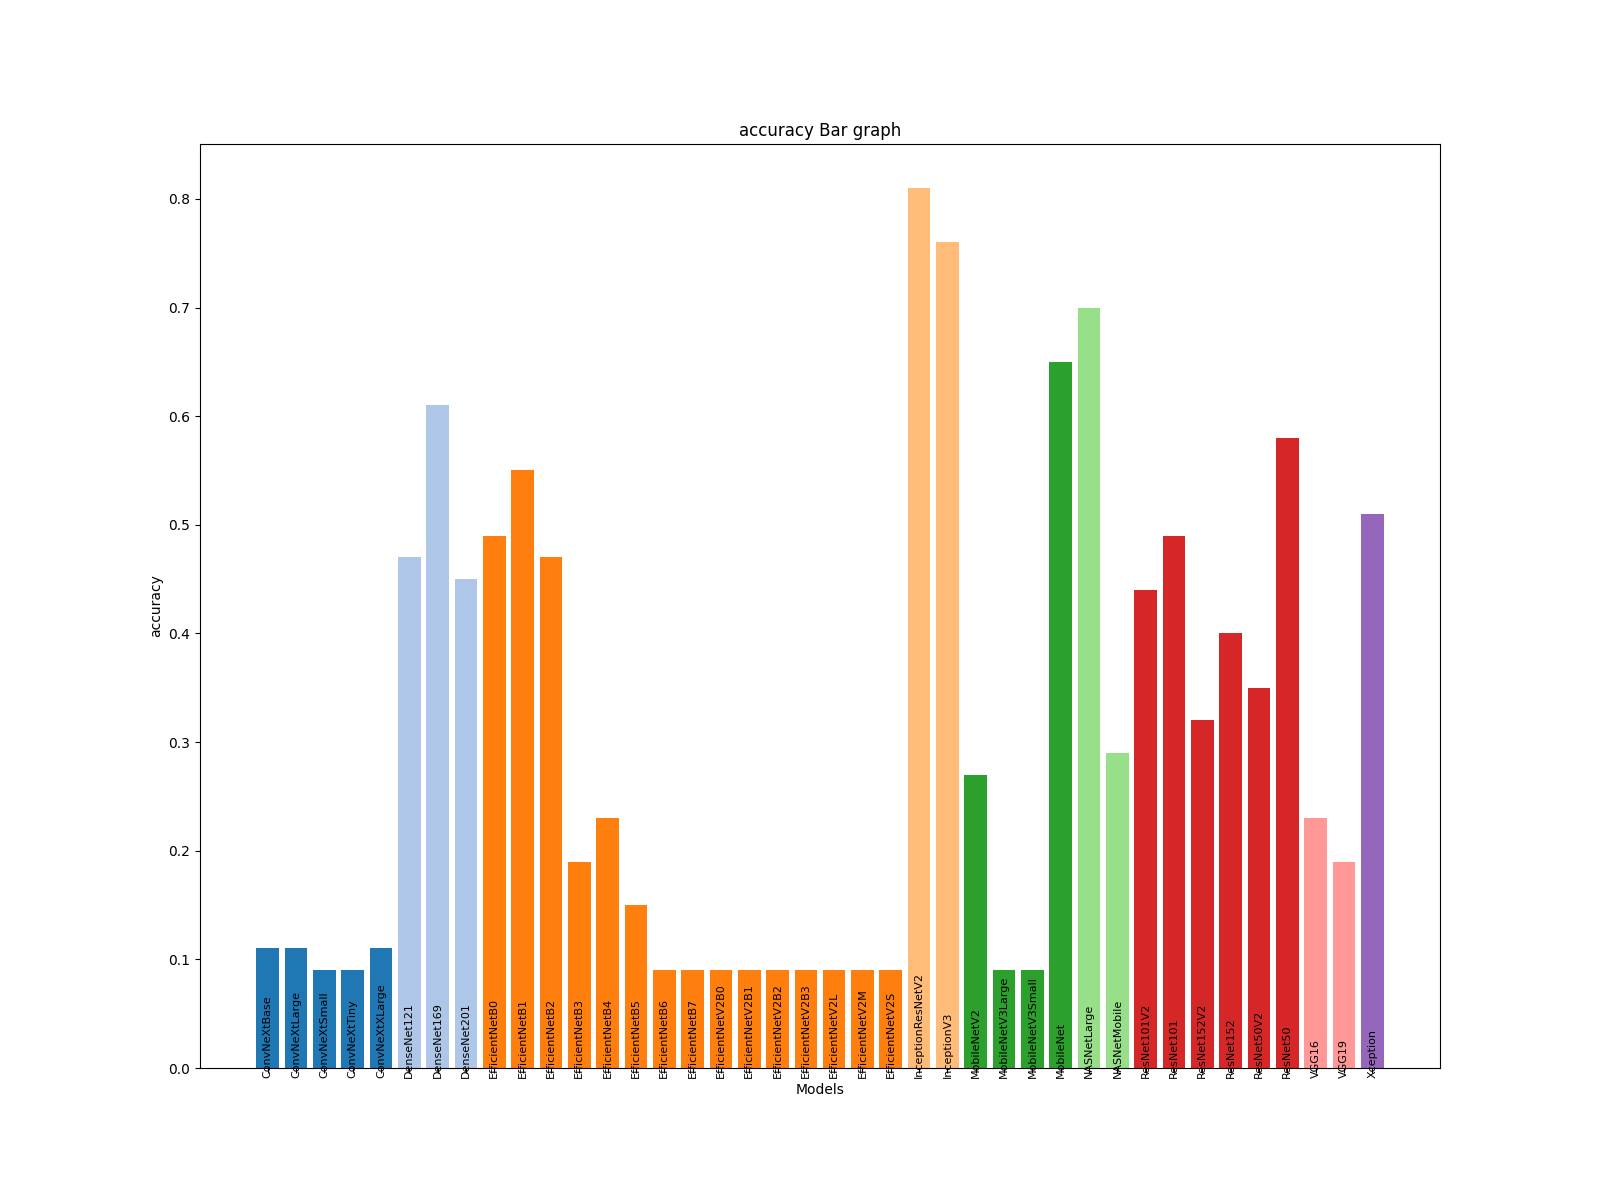
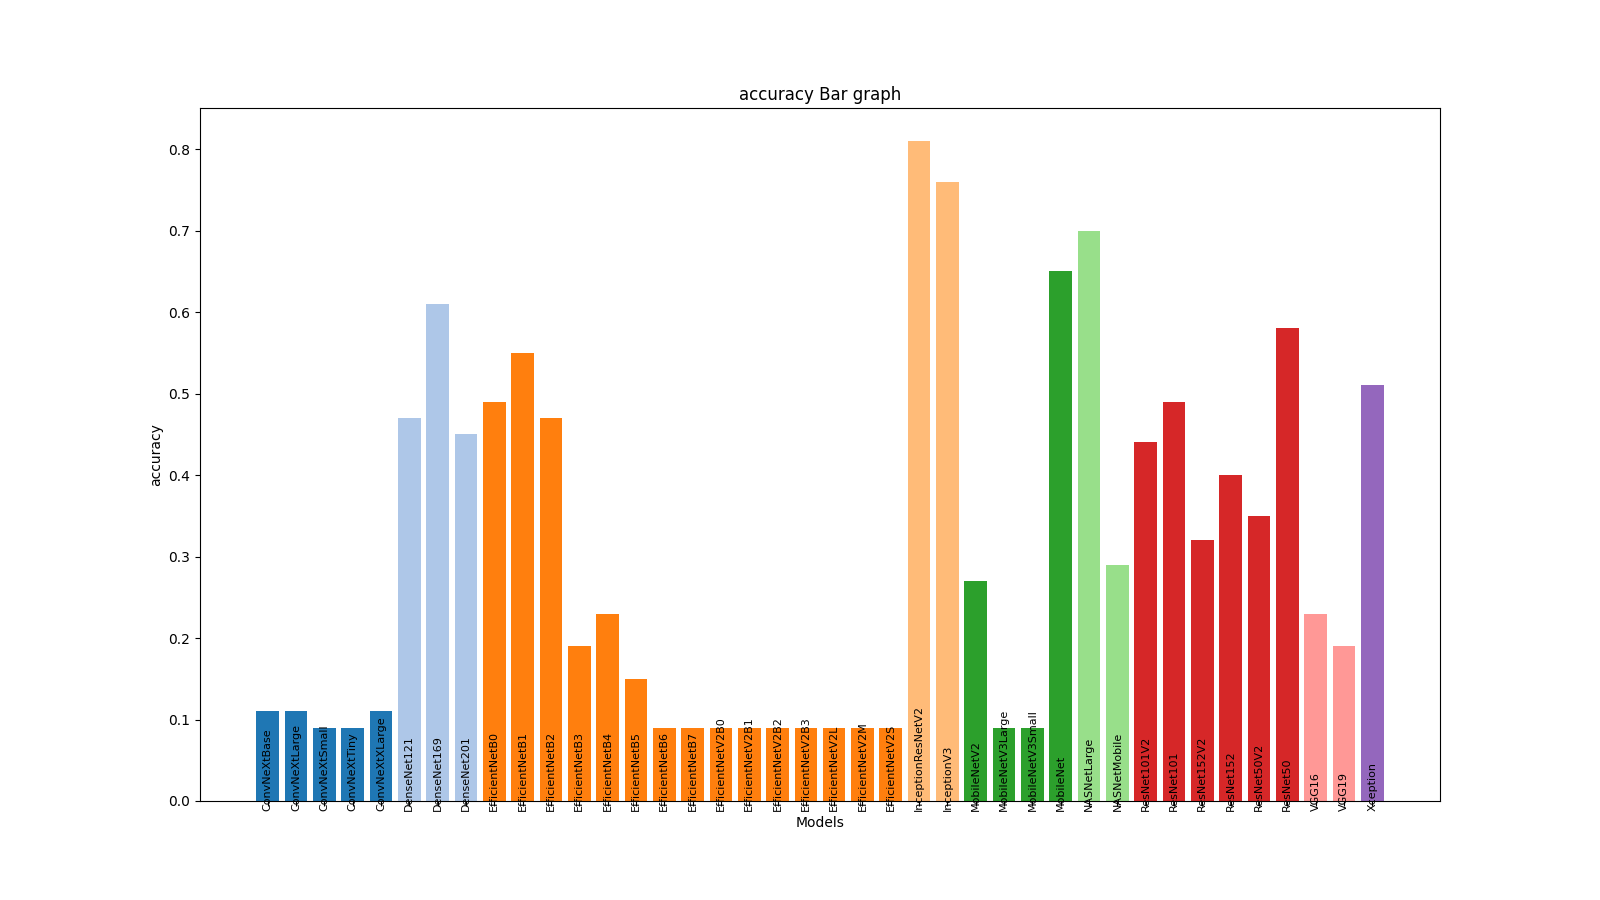
ha you thought it would be the last one

Changed region(s): [[0.1562, 0.7778, 0.875, 0.9333], [0.4688, 0.0933, 0.5625, 0.1244], [0.0938, 0.4667, 0.125, 0.5289]]

diff --git a/final/utils.py b/final/utils.py
@@ -81,7 +81,7 @@ def create_bar(metrics, col, path):
         dirs.append(d)
         c.append(i)
       
-    plt.figure(figsize=(16, 12))
+    plt.figure(figsize=(16, 9))
     plt.bar(cat, val,color=plt.cm.tab20(c))
 
     plt.xticks(rotation=90, va="bottom", fontsize=8)
